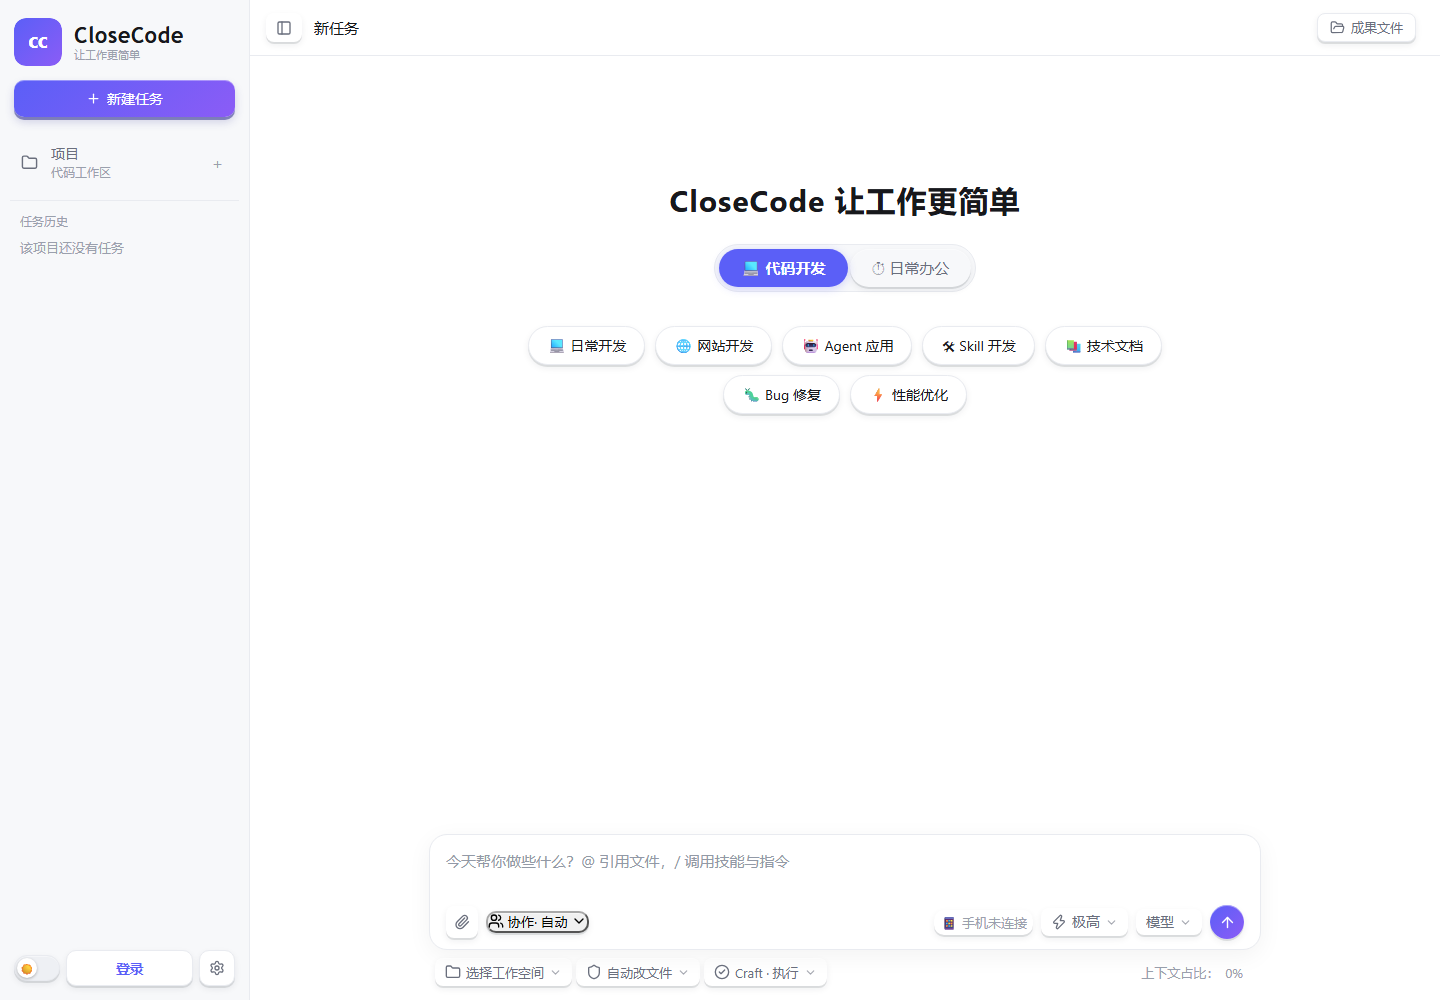
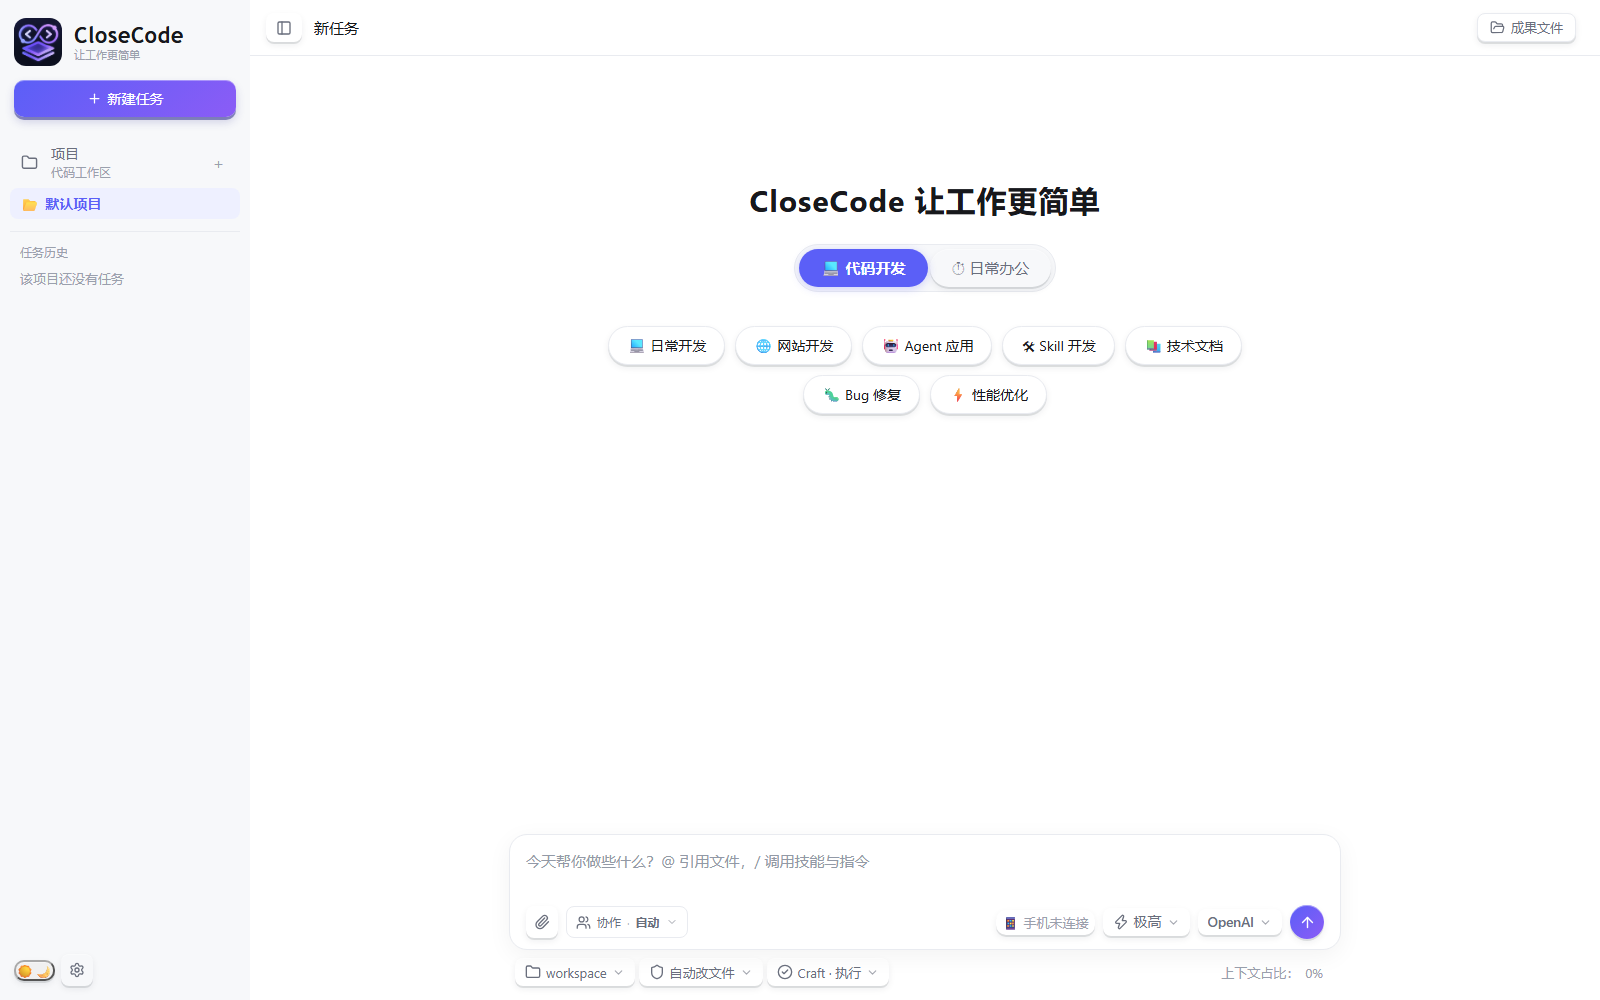
CloseCode 自动同步

diff --git a/README.md b/README.md
@@ -1,5 +1,9 @@
 # CloseCode
 
+> 感谢 DoCode 中转站的友情赞助！**使用邀请码注册即可获赠 300 刀**，每日抽奖、免费 Key、AI 编程大赛福利享不停。
+>
+> [立即注册](https://docode.cc/register?aff=OVJT)
+
 **面向开发与日常办公的本地优先 AI Agent 工作台。** 用自然语言描述任务，Agent 可以结合工具、技能与专家协作完成研究、代码、文档和数据处理，并把真实文件写入工作区。
 
 支持 Electron 桌面应用、Node.js 自托管服务和命令行入口。项目数据与成果保存在本机；使用远程模型时，对话上下文会发送给你配置的模型服务商。配置 Ollama 等本地模型可减少对远程模型 API 的依赖，但联网搜索等功能仍需要网络。
@@ -174,3 +178,10 @@ scripts/               图标、补丁等构建辅助脚本
 ---
 
 > 项目代码与配置仍需由维护者按实际部署环境审查；开源发布前请检查提交内容中没有密钥、个人数据、未授权资源或不适合公开的补丁签名材料。
+
+---
+
+> 感谢 DoCode 中转站的友情赞助！**使用邀请码注册即可获赠 300 刀**，每日抽奖、免费 Key、AI 编程大赛福利享不停。
+>
+> [立即注册](https://docode.cc/register?aff=OVJT)
+
